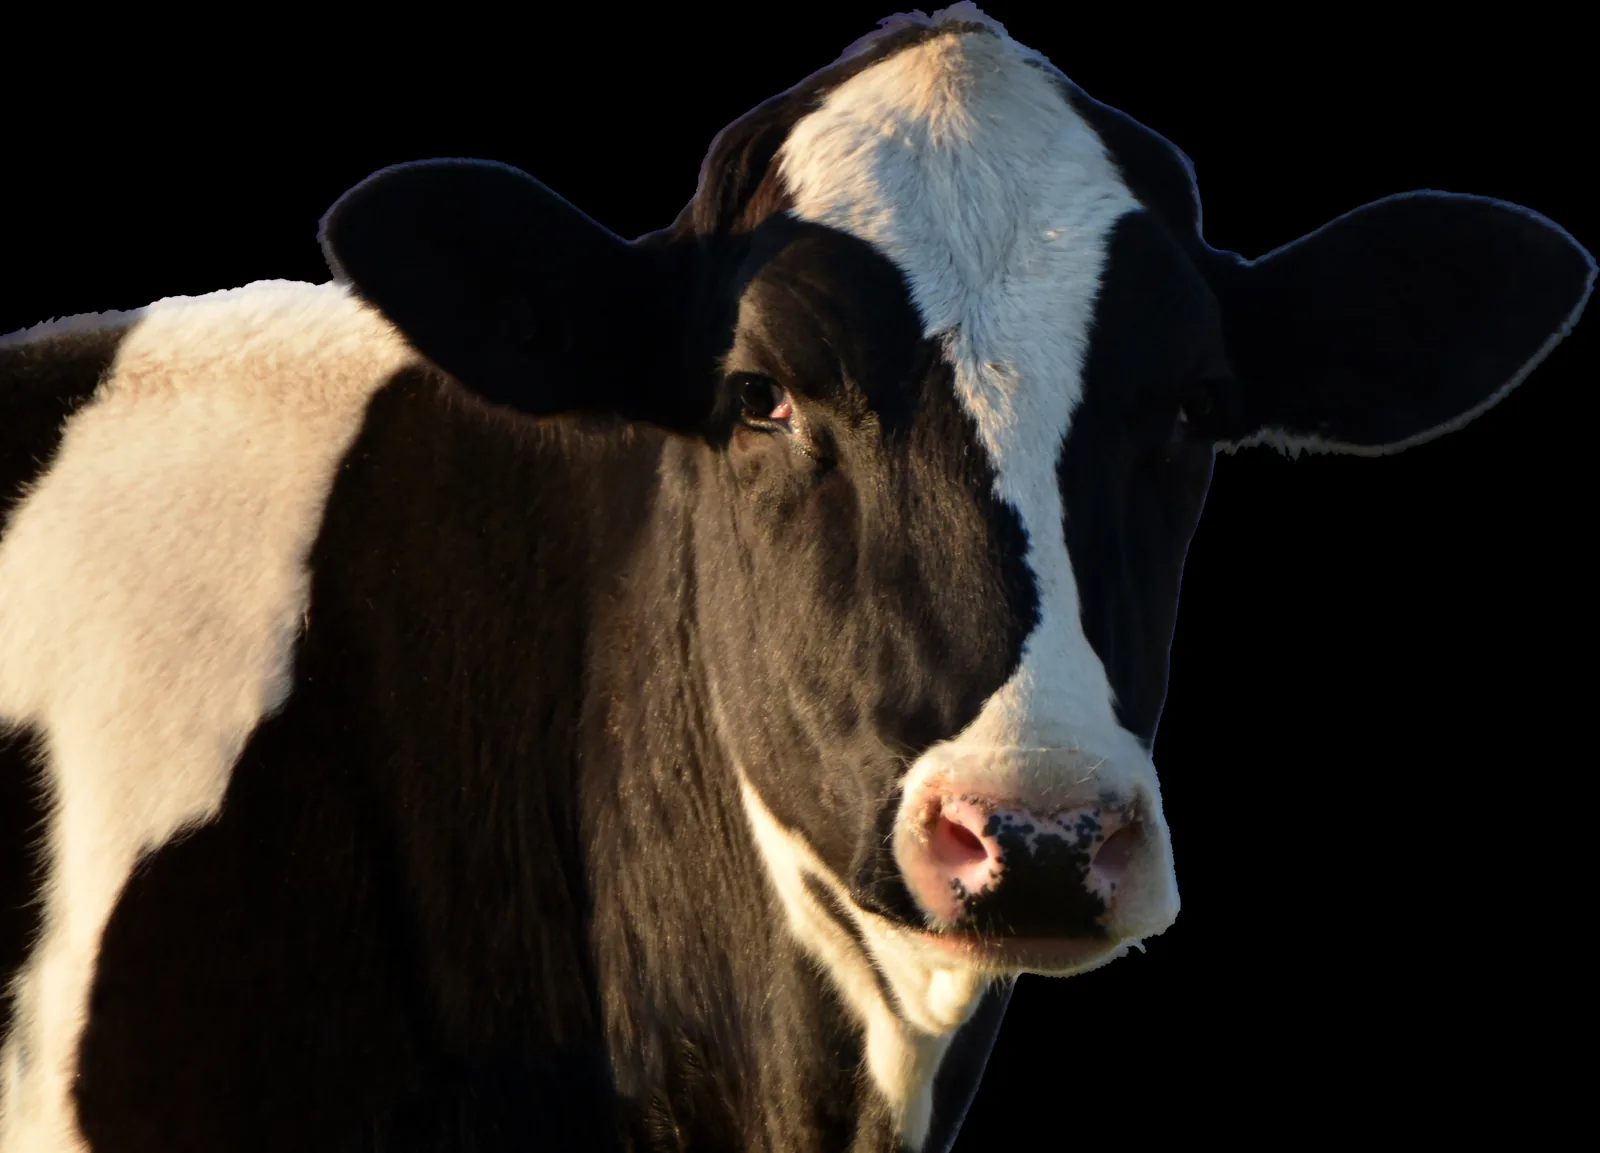
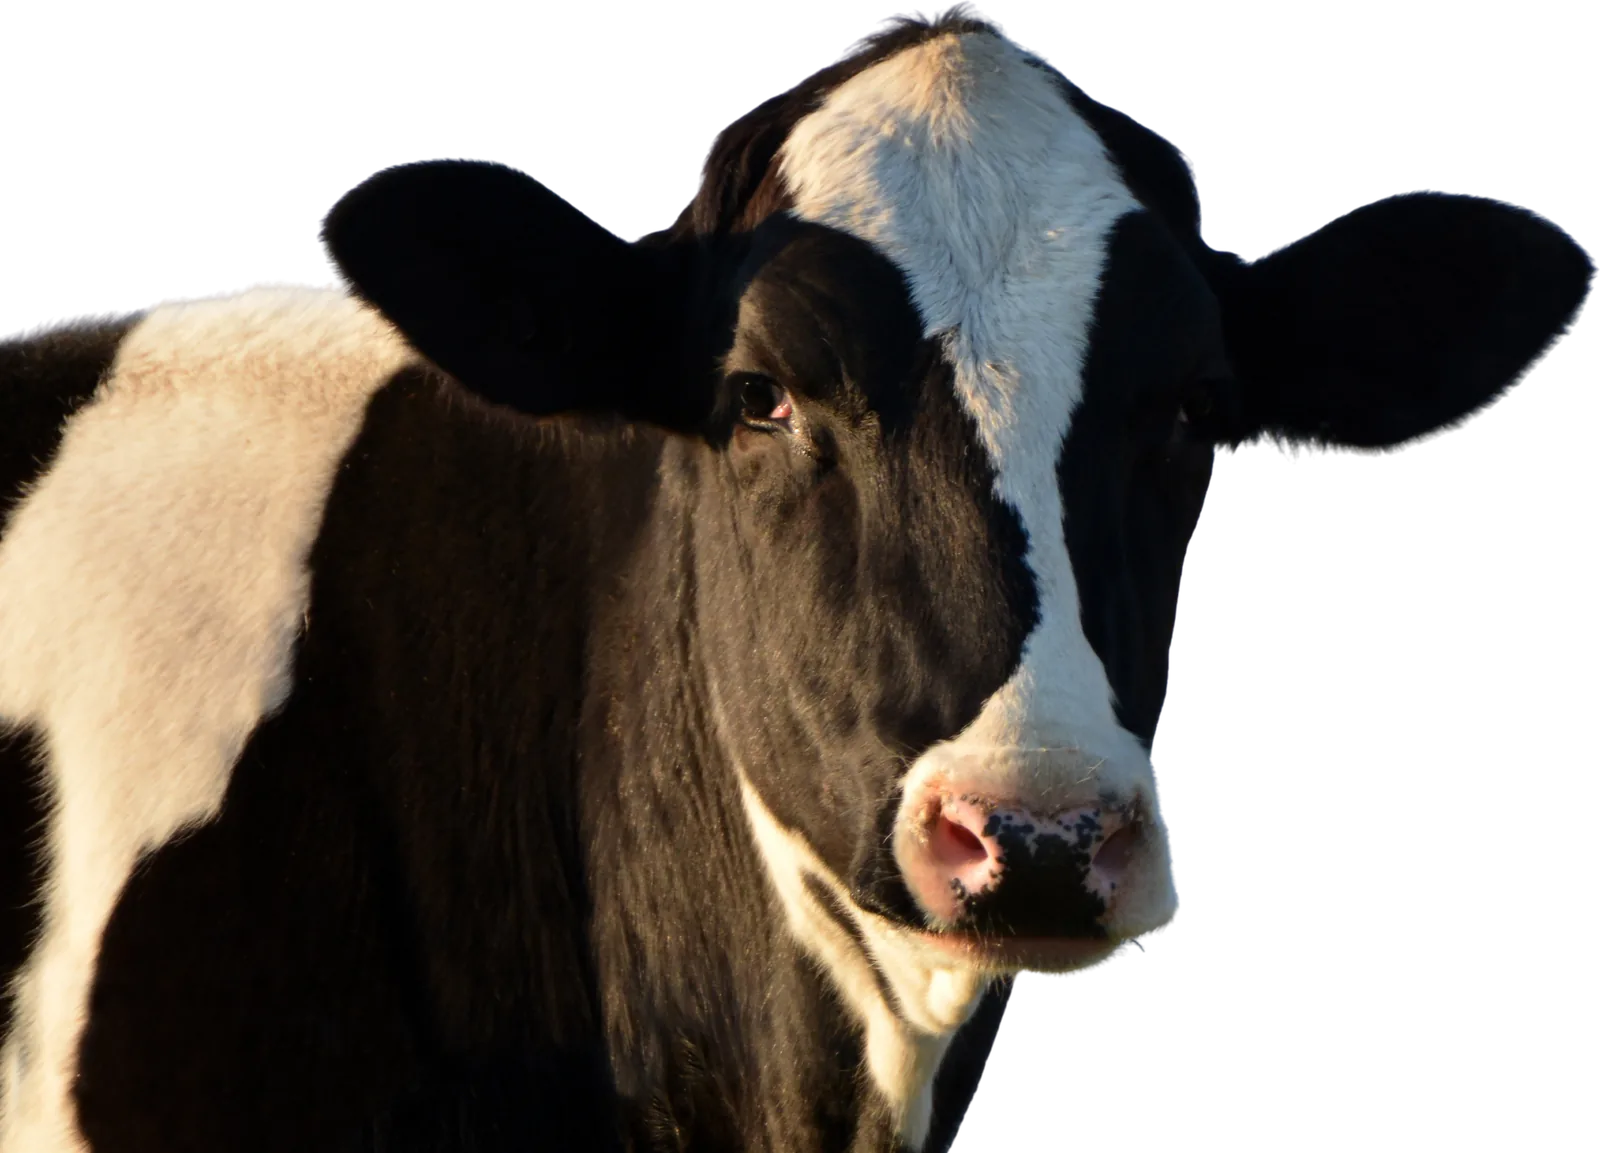
fix(web): sapi transparan tanpa kotak hitam di halaman produk
Foto hero/gudang kini RGBA dengan mask SVG jadi alfa, panel
bg-surface/border/box-shadow di belakang foto dibuang, uji
E2E ukur porsi piksel tembus pandang hasil sajian Next.

diff --git a/apps/web/tests/e2e/smoke.spec.ts b/apps/web/tests/e2e/smoke.spec.ts
@@ -111,6 +111,76 @@ test.describe("prototipe ReCob.id", () => {
       .toBeGreaterThan((await hero.getByRole("heading", { level: 1 }).boundingBox())?.y ?? 0);
   });
 
+  test("foto produk tampil transparan tanpa kotak di belakangnya", async ({ page }) => {
+    await page.goto("/produk");
+
+    for (const seksi of ["#produk-hero", "#cara-pakai"]) {
+      const foto = page.locator(`${seksi} img`);
+      const jumlah = await foto.count();
+      expect(jumlah, `${seksi} tidak memuat foto`).toBeGreaterThan(0);
+
+      for (let index = 0; index < jumlah; index += 1) {
+        const gambar = foto.nth(index);
+
+        // Foto di bawah lipatan memakai muatan malas: ukur setelah benar-benar terbit.
+        await gambar.scrollIntoViewIfNeeded();
+        await expect
+          .poll(async () =>
+            gambar.evaluate((node) => {
+              const img = node as HTMLImageElement;
+              return img.complete ? img.naturalWidth : 0;
+            }),
+          )
+          .toBeGreaterThan(0);
+
+        /*
+         * Diukur pada hasil akhir setelah pengoptimal Next, bukan berkas di repo: tanpa alfa,
+         * berkas sumber yang transparan pun bisa disajikan kembali sebagai kotak hitam.
+         *
+         * Yang diperiksa porsi piksel tembus pandang, bukan satu piksel sudut. AVIF lossy masih
+         * menggeser satu-dua piksel di tepi, sehingga pemeriksaan sudut tunggal gagal-berhasil
+         * bergantian; porsi tembus pandang tidak.
+         */
+        const porsiTembus = await gambar.evaluate((node) => {
+          const img = node as HTMLImageElement;
+          const kanvas = document.createElement("canvas");
+          kanvas.width = img.naturalWidth;
+          kanvas.height = img.naturalHeight;
+          const ctx = kanvas.getContext("2d");
+          if (ctx === null) return -1;
+          ctx.drawImage(img, 0, 0);
+          const data = ctx.getImageData(0, 0, kanvas.width, kanvas.height).data;
+          let tembus = 0;
+          for (let i = 3; i < data.length; i += 4) {
+            if (data[i] !== 0) continue;
+            tembus += 1;
+          }
+          return tembus / (kanvas.width * kanvas.height);
+        });
+        expect(porsiTembus, `${seksi} foto ${String(index)} disajikan tanpa alfa`).toBeGreaterThan(
+          0.02,
+        );
+
+        // Tidak ada panel yang dilukis di belakang foto: tanpa latar, tanpa bingkai, tanpa bayangan.
+        const pembungkus = await gambar.evaluate((node) => {
+          const figure = node.closest("figure");
+          if (figure === null) return null;
+          const gaya = getComputedStyle(figure);
+          return {
+            latar: gaya.backgroundColor,
+            bingkai: gaya.borderTopWidth,
+            bayangan: gaya.boxShadow,
+          };
+        });
+        expect(pembungkus?.latar, `${seksi} melukis latar di belakang foto`).toMatch(
+          /rgba\(0, 0, 0, 0\)|transparent/u,
+        );
+        expect(pembungkus?.bingkai, `${seksi} memakai bingkai`).toBe("0px");
+        expect(pembungkus?.bayangan, `${seksi} memakai bayangan`).toBe("none");
+      }
+    }
+  });
+
   test("alur editorial produk: hero, pita, manfaat, penawaran", async ({ page }) => {
     await page.goto("/produk");
 

diff --git a/apps/web/components/sections/product-usage.tsx b/apps/web/components/sections/product-usage.tsx
@@ -11,7 +11,8 @@ import { formatIdr } from "@/lib/utils/format";
  *
  * Ketiga blok ini berada di bidang terang supaya seluruh halaman produk terbaca sebagai satu alur
  * editorial; jeda gelapnya sudah dibawa pita alur tepat di atasnya. Foto gudang memakai
- * `object-cover` pada kotak bersisi tetap, bukan `fill`, karena tingginya ditentukan tata letak.
+ * `object-contain`, bukan `object-cover`: berkas fotonya sekarang punya alfa, dan `cover` akan
+ * memotong siluet subjek yang justru jadi alasan foto ini dipakai.
  */
 export async function ProductUsage(): Promise<ReactNode> {
   const { product } = await getPrimaryProduct();
@@ -20,10 +21,10 @@ export async function ProductUsage(): Promise<ReactNode> {
     <Section id="cara-pakai" tone="paper">
       <Container>
         <div className="grid gap-2xl lg:grid-cols-[0.85fr_1.15fr] lg:items-start">
-          <figure className="overflow-hidden rounded-lg" data-reveal="">
+          <figure data-reveal="">
             <Image
               alt={copy.productStory.usagePhotoAlt}
-              className="h-full w-full object-cover"
+              className="h-auto w-full object-contain"
               height={1153}
               sizes="(min-width: 1024px) 460px, 90vw"
               src="/img/produk/produk-gudang.webp"
@@ -55,7 +56,7 @@ export async function ProductUsage(): Promise<ReactNode> {
 
         <div className="mt-3xl grid gap-2xl lg:grid-cols-[0.7fr_1.3fr] lg:items-start">
           <figure
-            className="flex flex-col items-center justify-center rounded-lg bg-surface p-lg"
+            className="flex flex-col items-center justify-center"
             data-reveal=""
           >
             <Image

diff --git a/apps/web/components/sections/product-hero.tsx b/apps/web/components/sections/product-hero.tsx
@@ -52,13 +52,12 @@ export function ProductHero(): ReactNode {
           </div>
 
           <figure
-            className="overflow-hidden rounded-xl border border-border bg-surface"
             data-reveal=""
             style={{ "--reveal-delay": "120ms" } as CSSProperties}
           >
             <Image
               alt={copy.productStory.heroPhotoAlt}
-              className="h-auto w-full object-cover"
+              className="h-auto w-full object-contain"
               height={932}
               priority
               sizes="(min-width: 1024px) 560px, 92vw"
